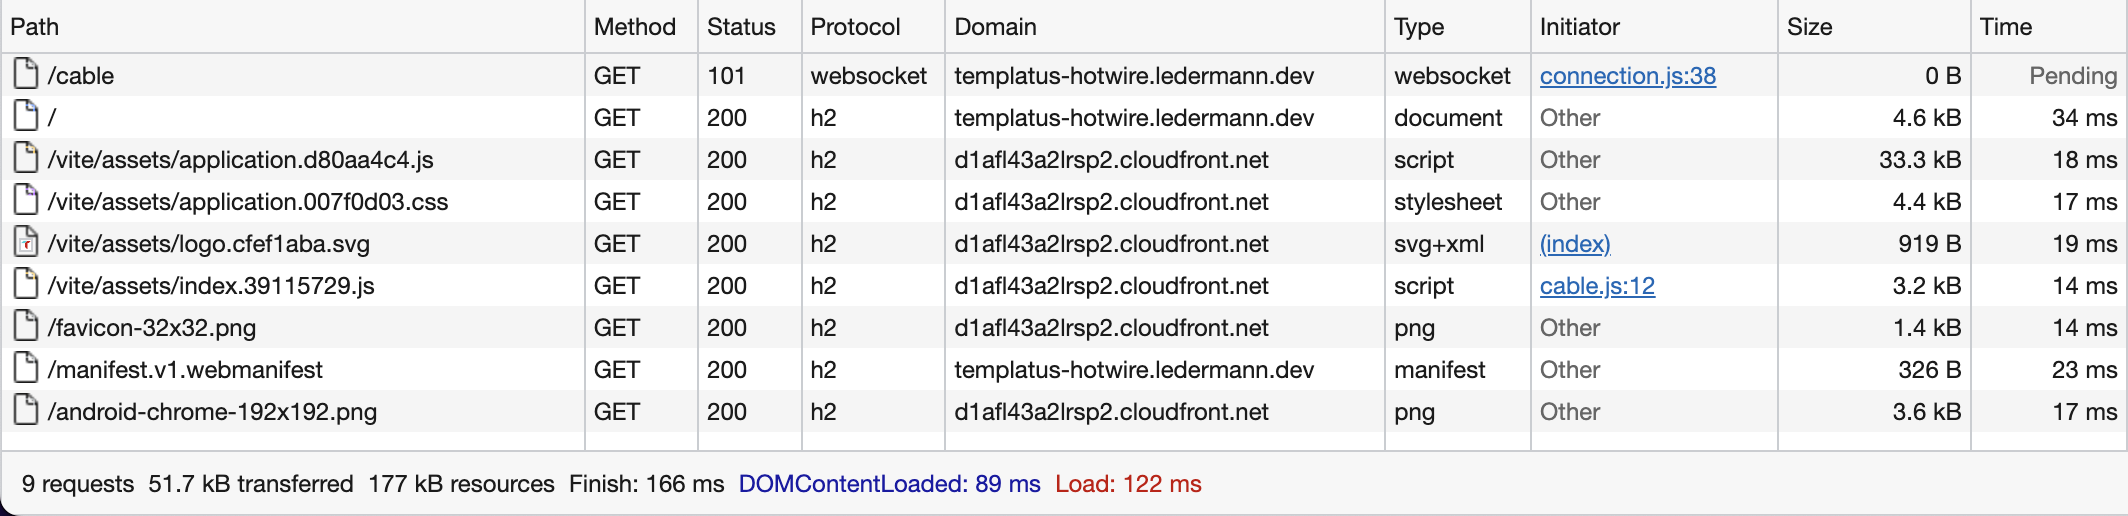
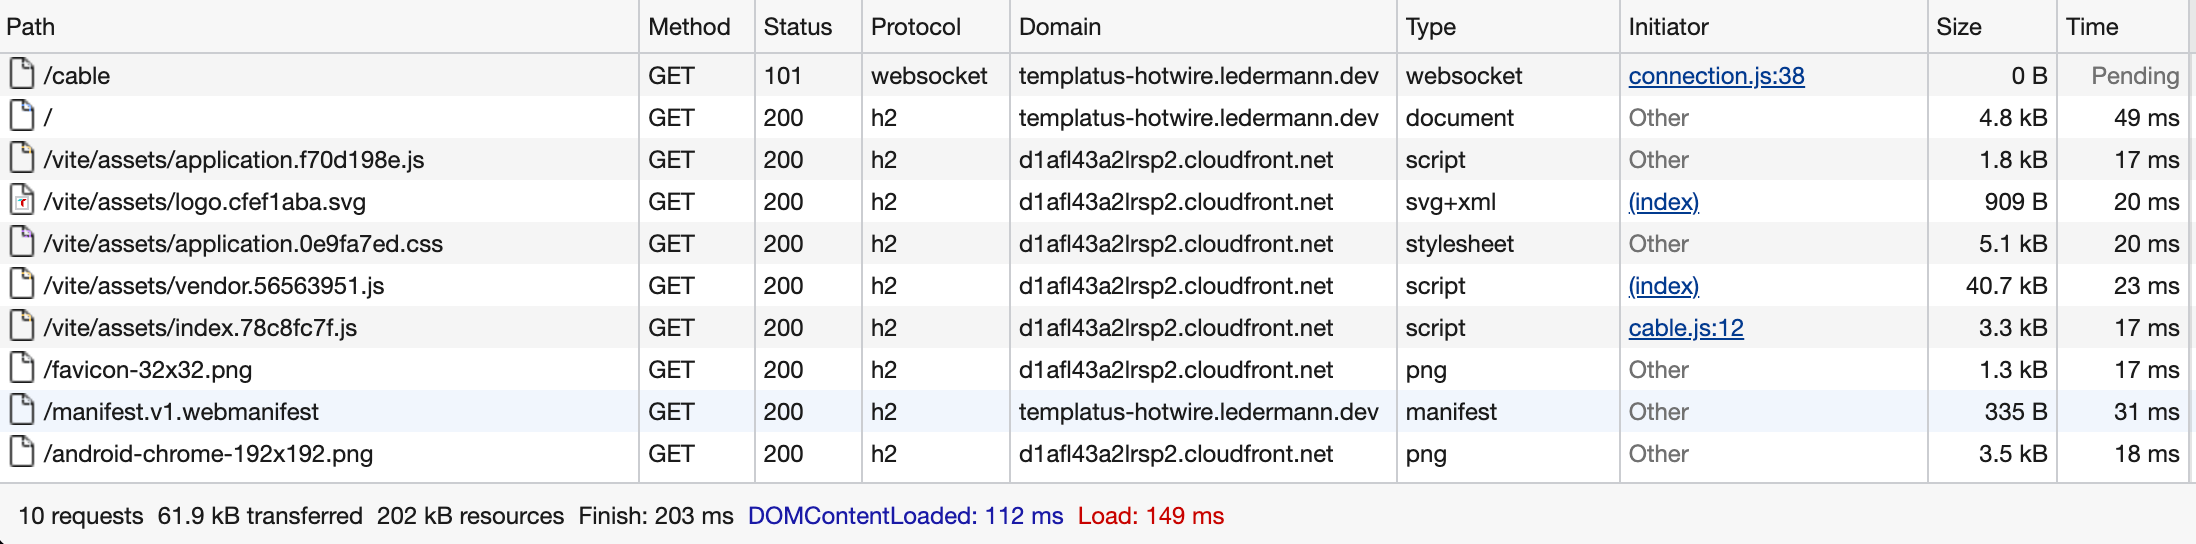
Update README.md

diff --git a/README.md b/README.md
@@ -7,10 +7,12 @@ Templatus is an opinionated template to build web applications with Ruby on Rail
 
 Live demo available at https://templatus-hotwire.ledermann.dev
 
+## Similar projects
+
 There are two sister repositories:
 
-- Using Vue.js instead of Hotwire: https://github.com/templatus/templatus-vue/
-- Using Inertia and Svelte.js instead of Hotwire: https://github.com/templatus/templatus-inertia/
+- For using Vue.js instead of Hotwire: https://github.com/templatus/templatus-vue/
+- For using Inertia and Svelte.js instead of Hotwire: https://github.com/templatus/templatus-inertia/
 
 ## Features / Technology stack
 
@@ -26,6 +28,7 @@ There are two sister repositories:
 ### Frontend
 
 - [Hotwire](https://hotwire.io/) for building the frontend without using much JavaScript by sending HTML instead of JSON over the wire
+- [TypeScript](https://www.typescriptlang.org/) for static type checking in Stimulus controllers and other script code
 - [ViewComponent](https://viewcomponent.org/) for creating reusable, testable & encapsulated view components
 - [Slim](http://slim-lang.com/) for writing templates instead of ERB
 - [Tailwind CSS 3](https://tailwindcss.com/) to not have to write CSS at all
@@ -103,7 +106,7 @@ https://github.com/rails/rails/pull/41994
 
 ### JavaScript size
 
-142 KB of compiled JavaScript (minified, uncompressed). The largest parts are:
+159 KB of compiled JavaScript (minified, uncompressed). The largest parts are:
 
 - Turbo with ActionCable (72 KB)
 - Stimulus (32 KB)
@@ -135,7 +138,7 @@ Build with Vite complete: /Users/ledermann/Projects/templatus-hotwire/public/vit
 
 ### Network transfer
 
-Small footprint: The demo application transfers only **51 KB** of data on the first visit.
+Small footprint: The demo application transfers only **62 KB** of (compressed) data on the first visit.
 
 ![Network](docs/network.png)
 
